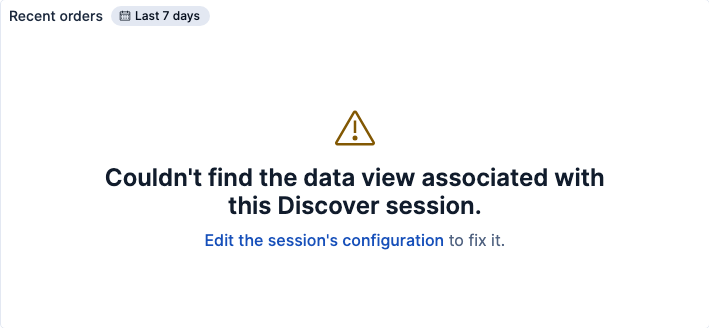
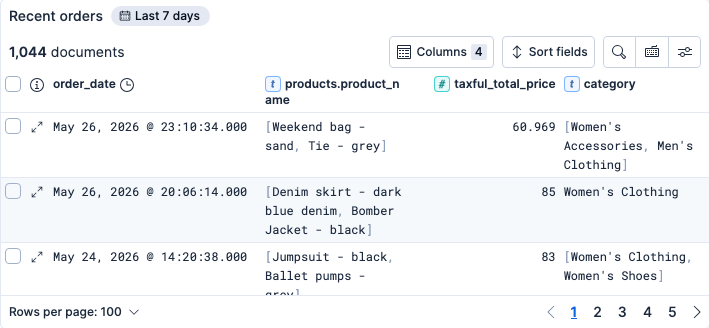
fix(guides): use inline data_view_spec for guide 2 discover session
The Discover panel was configured with `data_view_reference` and a `ref_id`
that didn't match any entry in the dashboard's saved-object `references`
list (the resource doesn't auto-populate references). In the Kibana UI this
surfaced as "Couldn't find the data view associated with this Discover
session" on the rendered panel.

Switch the panel to the same inline `data_view_spec` (via
`local.ecom_data_source`) that every Lens panel in the guide already uses.
Update the prose to explain the trade-off between `data_view_spec` and
`data_view_reference`, and recapture g2-03-discover.png from the fixed
dashboard so it shows real eCommerce orders.

diff --git a/docs/guides/kibana-dashboard-operations.md b/docs/guides/kibana-dashboard-operations.md
@@ -410,10 +410,7 @@ Embed **Discover** on the dashboard with a panel `type` of **`discover_session`*
             expression = ""
             language   = "kql"
           }
-          data_source_json = jsonencode({
-            type   = "data_view_reference"
-            ref_id = "kibana_sample_data_ecommerce"
-          })
+          data_source_json = local.ecom_data_source
           column_order = [
             "order_date",
             "products.product_name",
@@ -428,7 +425,7 @@ Embed **Discover** on the dashboard with a panel `type` of **`discover_session`*
 },
 ```
 
-- **`data_source_json` / `ref_id`** — Points at an existing Kibana data view by ID. Here **`ref_id = "kibana_sample_data_ecommerce"`** matches the data view the sample data installer creates (the same dataset as `index_pattern` in `local.ecom_data_source`, but referenced by saved-object ID for Discover).
+- **`data_source_json`** — The same inline **`data_view_spec`** local (`local.ecom_data_source`) that the Lens panels reuse. The polymorphic DSL data source also supports **`data_view_reference`** for linking by saved-object ID, but that variant requires a matching entry in the dashboard's saved-object `references` list; the resource doesn't auto-populate references, so prefer the inline spec for self-contained dashboards.
 - **`column_order`** — Field names shown as table columns, in left-to-right order.
 - **`view_mode`** — `"documents"` shows the document-oriented table (as opposed to a pure field statistics view). Use the value that matches how you saved the Discover session in Kibana when exporting config.
 
@@ -773,10 +770,7 @@ resource "elasticstack_kibana_dashboard" "operations" {
                 expression = ""
                 language   = "kql"
               }
-              data_source_json = jsonencode({
-                type   = "data_view_reference"
-                ref_id = "kibana_sample_data_ecommerce"
-              })
+              data_source_json = local.ecom_data_source
               column_order = [
                 "order_date",
                 "products.product_name",